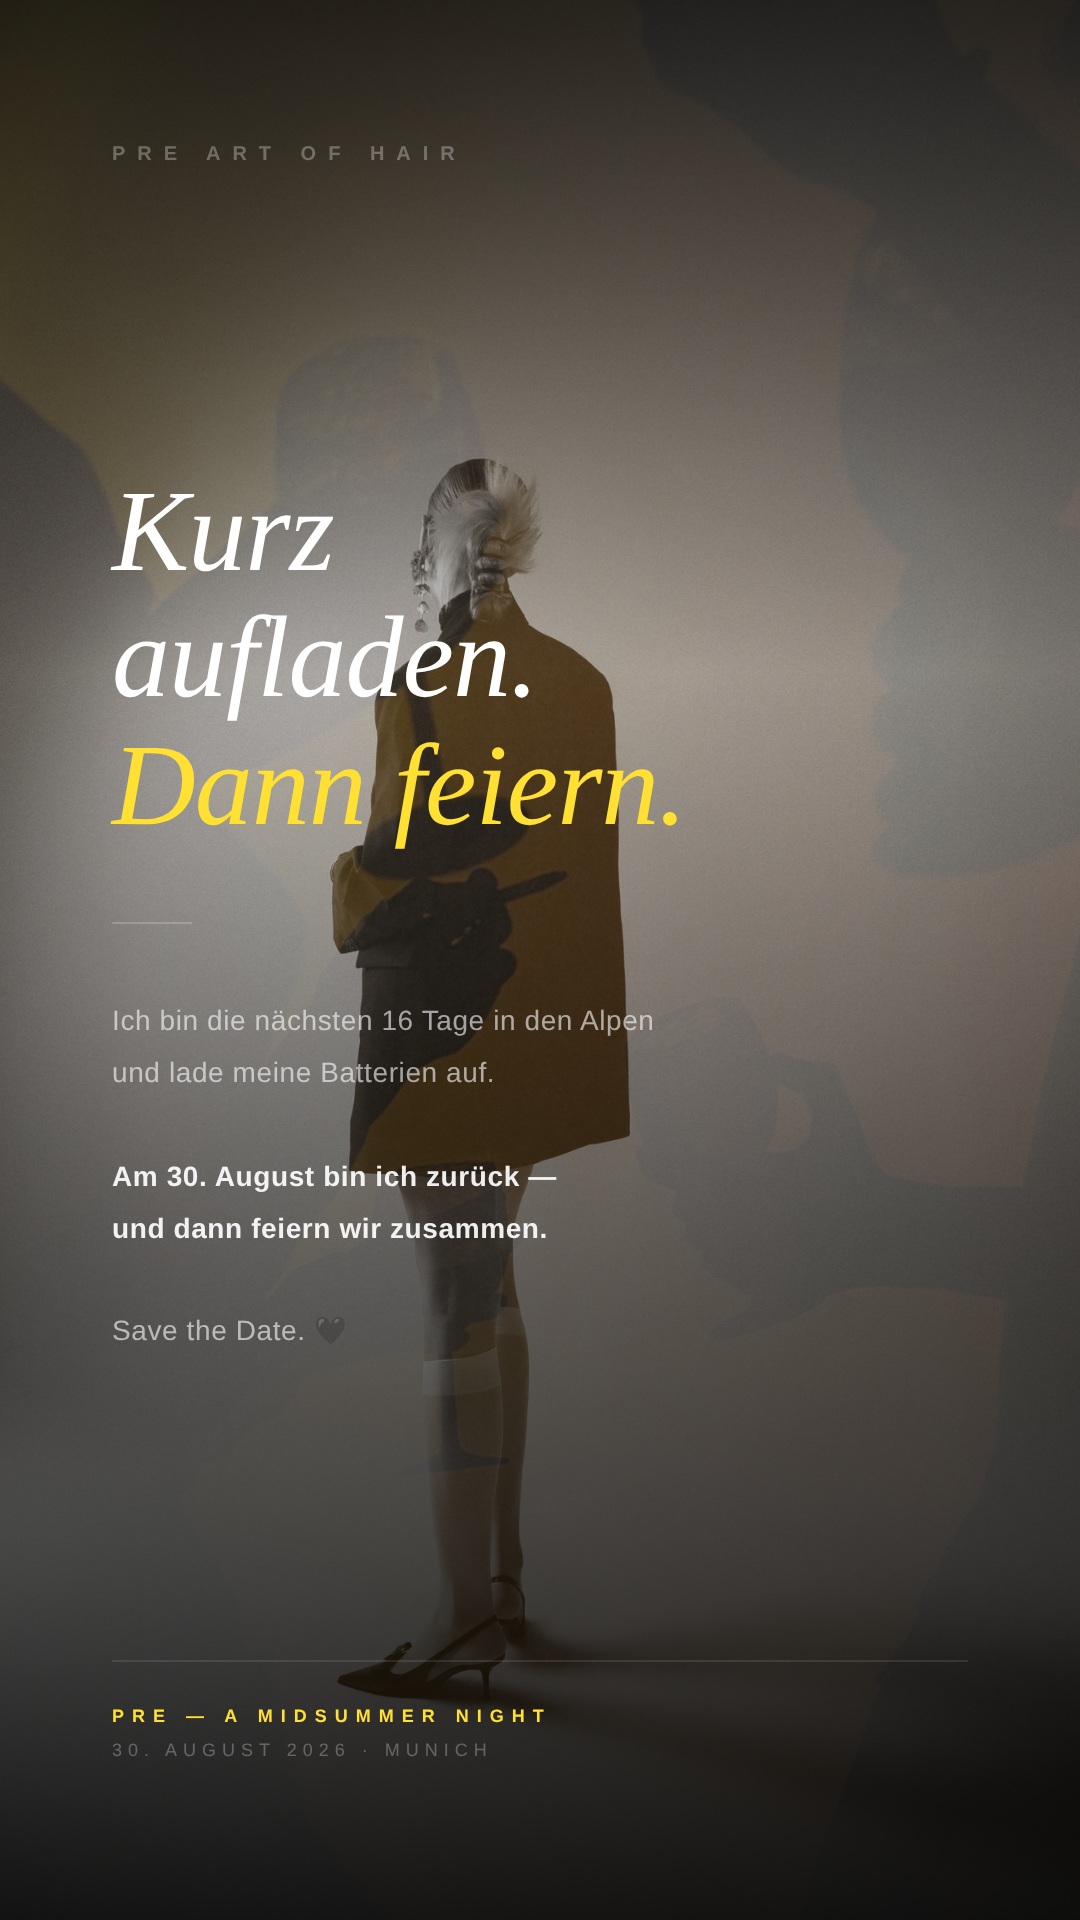
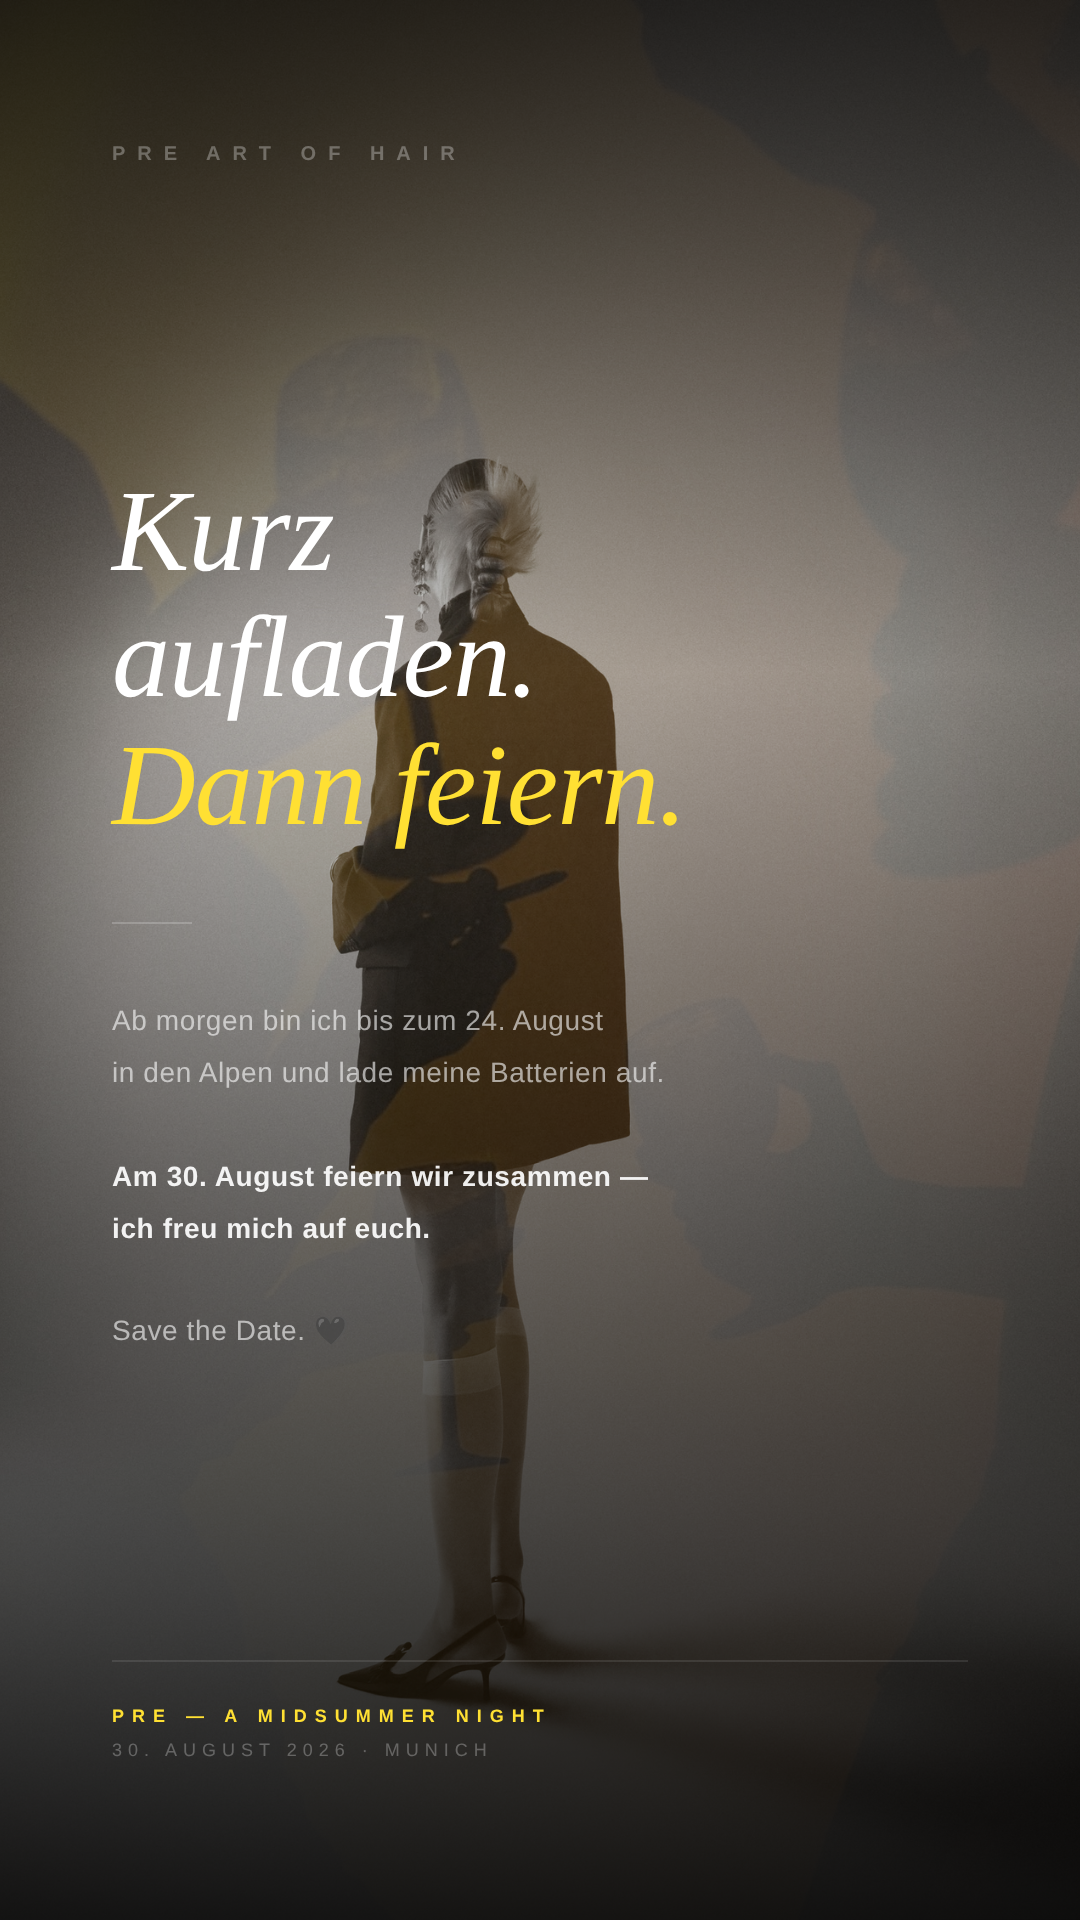
Fix vacation dates: 15.–24. August
Claude-Session: https://claude.ai/code/session_01BaC8m9wAmbtKccXQSCmnYc

Changed region(s): [[0.1222, 0.5938, 0.55, 0.6562], [0.1222, 0.5312, 0.6111, 0.5625]]

diff --git a/story-aug14-urlaub.html b/story-aug14-urlaub.html
@@ -139,10 +139,10 @@
         </div>
         <div class="rule"></div>
         <div class="body">
-          Ich bin die nächsten 16 Tage in den Alpen<br>
-          und lade meine Batterien auf.<br><br>
-          <b>Am 30. August bin ich zurück —<br>
-          und dann feiern wir zusammen.</b><br><br>
+          Ab morgen bin ich bis zum 24. August<br>
+          in den Alpen und lade meine Batterien auf.<br><br>
+          <b>Am 30. August feiern wir zusammen —<br>
+          ich freu mich auf euch.</b><br><br>
           Save the Date. 🖤
         </div>
       </div>
